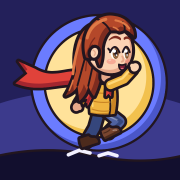
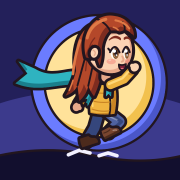
fix(amblem): logodaki atkı turkuaz oldu, sarı ile kırmızı yan yana gelmiyor
- Amblem, sekme işareti ve paylaşım görselinde Uktun'un atkısı kırmızı yerine turkuaz (gölgesi koyu turkuaz)
- Favicon, uygulama ikonları ve paylaşım görseli yeniden üretildi

Claude-Session: https://claude.ai/code/session_01CjLDHmnx52kt2x3rMBM3Pi

Changed region(s): [[0.0833, 0.3333, 0.4167, 0.5], [0.4722, 0.5278, 0.5278, 0.5833], [0.5833, 0.5, 0.6389, 0.5278]]

diff --git a/scripts/art/emblem.ts b/scripts/art/emblem.ts
@@ -15,8 +15,8 @@ const RING = '#6b7cff'
 const RING_S = '#4a56c9'
 const HILL = '#120f2e'
 const FAR = '#33307a'
-const SCARF = '#e0423a'
-const SCARF_S = '#a3262f'
+const SCARF = '#2fb3c0'
+const SCARF_S = '#1a7f8c'
 const CREAM = '#f3f1ff'
 const SKIN = LOOKS.uktun.skin
 /** heroDraw'ın kendi dış hat kalınlığı (çizim biriminde) */
@@ -97,7 +97,7 @@ export interface EmblemOpts {
   inset?: number
 }
 
-/** Ana amblem: gün batımı diskinin önünde seken kırmızı atkılı Uktun. */
+/** Ana amblem: gün batımı diskinin önünde seken turkuaz atkılı Uktun (sarı güneş ve ceketle kırmızı yan yana gelmesin). */
 export function drawEmblem(c: Ctx, size: number, o: EmblemOpts = {}) {
   const k = size / 100
   c.save()
@@ -136,7 +136,7 @@ function frame(c: Ctx, size: number) {
   c.restore()
 }
 
-// ── sekme işareti (favicon): cepheden yüz + kırmızı atkı, altın güneşin önünde ──
+// ── sekme işareti (favicon): cepheden yüz + turkuaz atkı, altın güneşin önünde ──
 
 const MARK_HAIR = '#c4532a'
 const BLUSH = '#f0a08c'
